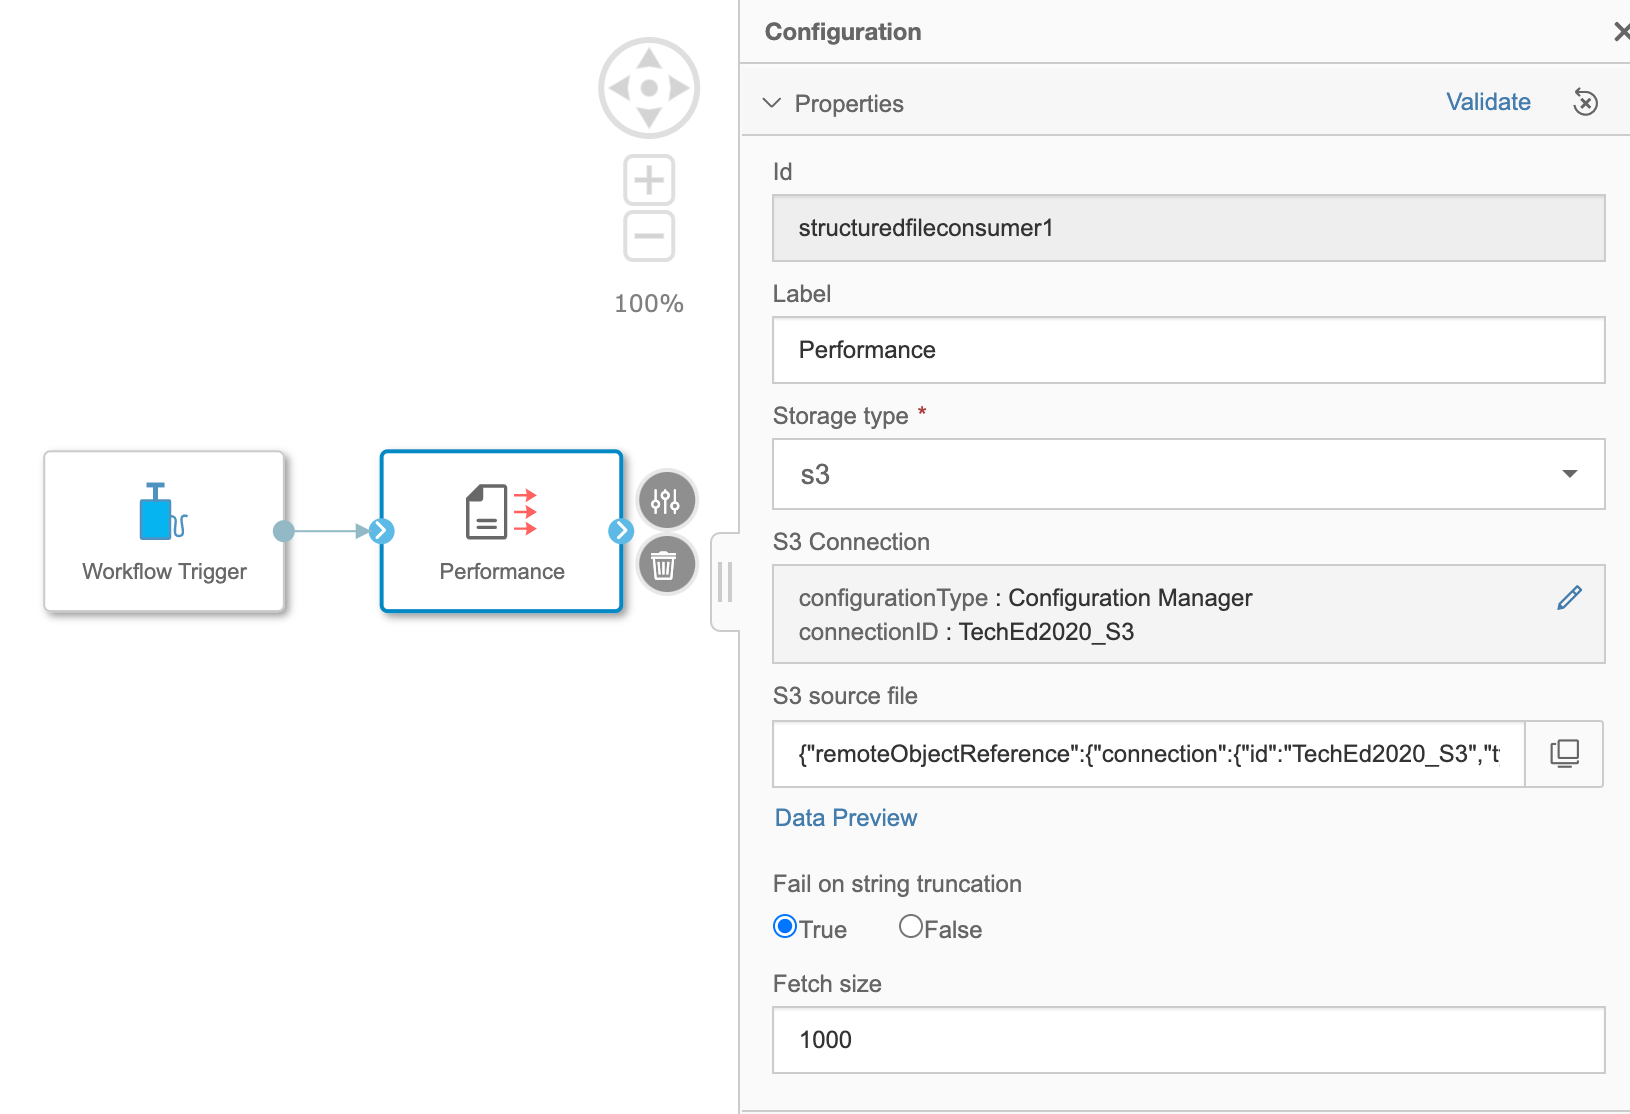
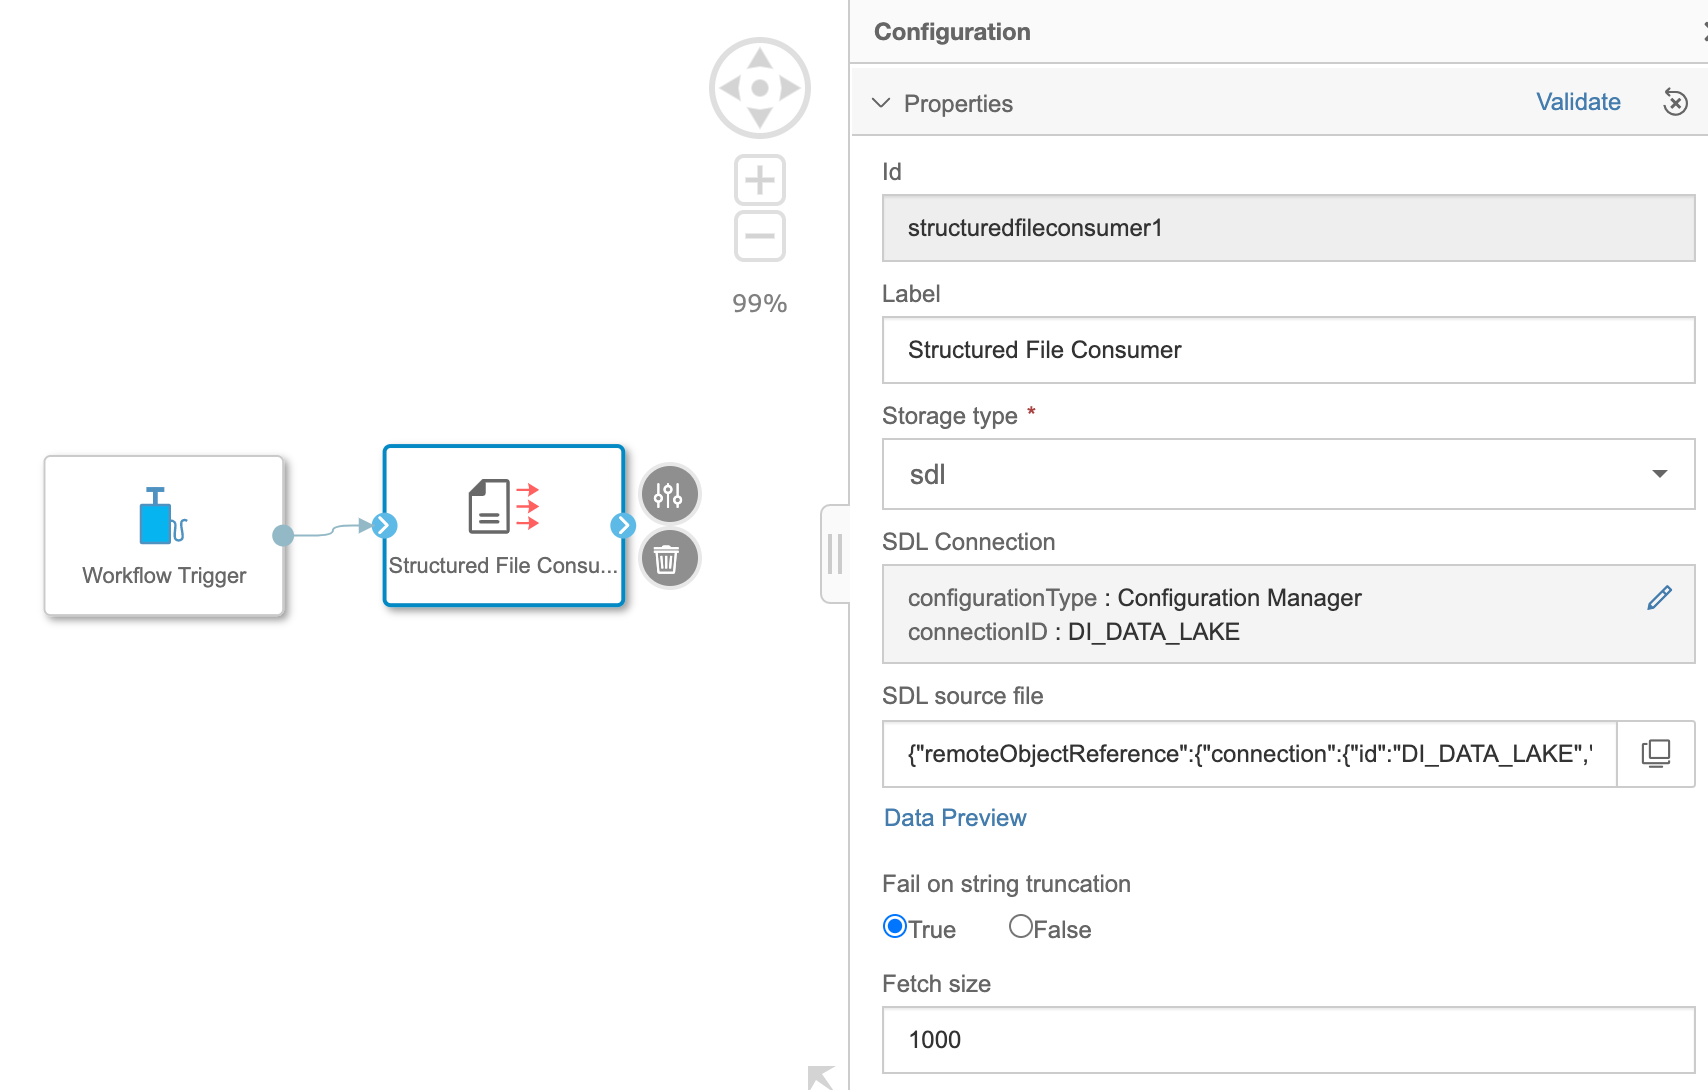
ex2 update

Changed region(s): [[0.0307, 0.0, 1.0, 1.0], [0.9816, 0.1872, 1.0, 0.2495], [0.9816, 0.0, 1.0, 0.0624]]

diff --git a/exercises/ex2/README.md b/exercises/ex2/README.md
@@ -51,11 +51,11 @@ Right click the `Structured File Consumer` operator and open the configuration m
 
 1. (Optional) Rename the **Label** to `Performance`. This makes the pipeline more readable
 2. Set **Storage type** (drop-down menu): `sdl`
-3. In S3 Connection, click on pencil-icon and set
+3. In sdl Connection, click on pencil-icon and set
 	* **Configuration Type**: `Configuration Manager`
 	* **Connection ID**:  `DI_DATA_LAKE`
 	* Save
-4. Select the S3 source file by clicking on **monitor-icon** : `/shared/TAxx/performance.csv`
+4. Select the source file by clicking on **monitor-icon** : `/shared/TAxx/performance.csv`
 5. You may click on the **Data Preview** button to inspect the data you are working with
 6. Set **Fail on string truncation**: `True`
 
